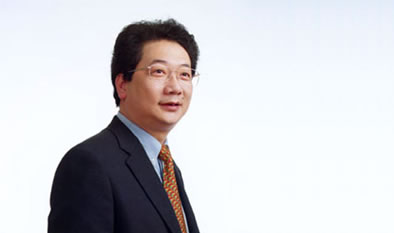
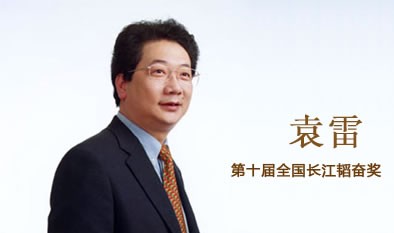
robbin

Changed region(s): [[0.5787, 0.691, 0.9746, 0.7811], [0.731, 0.4807, 0.9137, 0.6309]]

diff --git a/css/qyh.css b/css/qyh.css
@@ -1,9 +1,64 @@
-bodys{font-size:12px;  font-family:Arial,宋体; color:#000;  margin:0 auto; padding:0;}
+body{font-size:12px;  font-family:Arial,宋体; color:#000;  margin:0 auto; padding:0;}
 
 #ibody{width:1250px; height:1856px; background:url('/subject/qyh/images/qyh_bg.jpg') no-repeat; margin:0 auto;}
-#qyh_index{width:945px; height:1159px; margin-top:10px; margin-left:152px; background:url('/subject/qyh/images/content_bg.jpg') no-repeat;  float:left; display:inline;}
+#qyh_index{width:945px; height:1542px; margin-top:10px; margin-left:152px; background:url('/subject/qyh/images/index_content_bg.jpg') no-repeat;  float:left; display:inline;}
 #index_top{width:929px; height:324px; margin-top:5px; margin-left:8px; background:url('/subject/qyh/images/index_top.jpg') no-repeat; float:left; display:inline;}
-#index_top .index_t_title{width:890px; height:22px; margin-top:5px; margin-left:10px; font-size:18px; font-weight:bold; line-height:22px; float:left; display:inline;}
+#index_top .index_t_title{width:890px; height:22px; margin-top:5px; margin-left:20px; font-size:18px; font-weight:bold; line-height:22px; color:#fbc43c; float:left; display:inline;}
 #index_top .index_t_title a{color:#fbc43c; text-decoration:none;}
-#index_top #t_l_pic{width:410px; height:248px; margin-top:10px; margin-left:10px; background:url('/subject/qyh/images/index_t_l_pic.jpg') no-repeat; float:left; display:inline;}
+#index_top #t_l_pic{width:410px; height:248px; margin-top:20px; margin-left:15px; background:url('/subject/qyh/images/index_t_l_pic.jpg') no-repeat; float:left; display:inline;}
 #index_top #t_l_pic img{width:394px; height:233px; margin-top:6px; margin-left:7px;}
+#index_top .t_r_pic{width:469px; height:115px; margin-top:20px; margin-right:15px; background:url('/subject/qyh/images/index_r_pic.jpg') no-repeat; float:right; display:inline;}
+#index_top .t_r_pic .t_r_picimg{width:128px; height:78px; margin-top:6px; margin-left:8px; float:left; display:inline;}
+#index_top .t_r_pic .t_r_picimg img{width:128px; height:78px;}
+#index_top .t_r_pic .t_r_pictitle{width:128px; height:20px; margin-top:10px; text-align:center; float:left; display:inline;}
+#index_top .t_r_pic .t_r_pictitle a{color:#6a390a; text-decoration:none;}
+#index_top #t_l_content{width:890px; height:38px; margin-top:10px; margin-right:5px; font-size:14px; line-height:19px; float:right; display:inline;}
+#index_top #t_l_content a{color:#ab6821; text-decoration:none;}
+#index_mid_l{width:533px; height:284px; margin-top:10px; margin-left:8px; background:url('/subject/qyh/images/index_l_c_bg.jpg') no-repeat; float:left; display:inline;}
+#index_mid_l #title{width:400px; height:22px; margin-top:5px; margin-left:60px; line-height:22px; font-size:18px; font-family:微软雅黑; color:#884800; font-weight:bold; float:left; display:inline;}
+#index_mid_l #title a{color:#884800; text-decoration:none;}
+#index_mid_l .m_l_content{width:220px; height:60px; margin-top:20px; margin-left:40px; float:left; display:inline;}
+#index_mid_l .m_l_content .pic{width:77px; height:59px; background:url('/subject/qyh/images/index_l_m_pic.jpg') no-repeat; float:left; display:inline;}
+#index_mid_l .m_l_content .pic img{width:66px; height:44px; margin-left:6px; margin-top:7px;}
+#index_mid_l .m_l_content .piccontent{width:132px; height:38px; line-height:19px; overflow:hidden; float:right; display:inline;}
+#index_mid_l .m_l_content .piccontent a{color:#ab6821; text-decoration:none;}
+#index_mid_l .m_l_content .ly{width:132px; height:19px; float:right; display:inline;}
+#index_mid_l .m_l_content .ly a{color:#ab6821; text-decoration:none;}
+#index_mid_r_t{width:366px; height:210px; margin-top:10px; margin-right:8px; background:url('/subject/qyh/images/index_m_r_t.jpg') no-repeat; float:right; display:inline;}
+#index_mid_r_t #title{width:365px; height:22px; margin-top:6px; float:left; display:inline;}
+#index_mid_r_t #title #wz{width:92px; height:22px; margin-left:50px; font-size:18px; line-height:22px; font-family:微软雅黑; font-weight:bold; color:#884800; float:left; display:inline;}
+#index_mid_r_t #title #wz a{color:#884800; text-decoration:none;}
+#index_mid_r_t #title #more{width:96px; height;16px; margin-top:8px; margin-right:10px; font-weight:bold; line-height:16px; margin-right:10px; float:right; display:inline;}
+#index_mid_r_t #title #more a{color:#884800; text-decoration:none;}
+#index_mid_r_t .pic{width:212px; height:152px; margin-top:15px; margin-left:20px; background:#ff9900; overflow:hidden; float:left; display:inline;}
+#index_mid_r_t .pic img{width:208px; height:148px; margin:2px;}
+#index_mid_r_t #dialogname{width:111px; height:152px; margin-top:20px; margin-left:5px; float:left; display:inline;}
+#index_mid_r_t #dialogname .name{width:111px; height:27px; text-align:center; color:#6a3906; line-height:27px; float:left; display:inline;}
+#index_mid_r_t #dialogname .name a{color:#6a3906; text-decoration:none;}
+#index_mid_r_b{width:366px; height:66px; margin-top:10px; margin-right:8px; float:right; display:inline;}
+#index_b1{width:928px; height:215px; margin-top:10px; margin-left:8px; background:url('/subject/qyh/images/index_b1.jpg') no-repeat; float:left; display:inline;}
+#index_b1 #title{width:900px; height:22px; margin-top:5px; margin-left:20px; color:#884800; font-weight:bold; font-family:微软雅黑; line-height:22px; font-size:18px; float:left; display:inline;}
+#index_b1 .pic{width:164px; height:110px; margin-top:20px; margin-left:18px; background:url('/subject/qyh/images/index_b_pic.jpg') no-repeat; overflow:hidden; float:left; display:inline;}
+#index_b1 .pic img{width:152px; height:98px; margin:6px;}
+#index_b1 #jiangxiang{width:928px; height:48px; margin-top:5px; text-align:center; float:left; display:inline;}
+#index_b1 .jx{width:175px; height:48px; background:url('/subject/qyh/images/index_b_jx.jpg') no-repeat; margin-left:40px; float:left; display:inline;}
+#index_b1 .jx .wz{width:128px; height:18px; margin-top:18px; line-height:18px; font-size:14px; text-align:center; font-weight:bold; color:#ffffff; float:right; display:inline;}
+#index_b1 .jx .wz a{color:#ffffff; text-decoration:none;}
+.index_b_l{width:731px; height:284px; margin-top:10px; margin-bottom:10px; margin-left:8px; background:url('/subject/qyh/images/index_r_b_l_t.jpg') no-repeat; float:left; display:inline;}
+.index_b_l .title{width:600px; height:22px; margin-top:5px; margin-left:60px; color:#884800; font-weight:bold; font-family:微软雅黑; line-height:22px; font-size:18px; float:left; display:inline;}
+.index_b_l .content_l{width:235px; margin-top:25px; margin-left:17px; float:left; display:inline;}
+.index_b_l .content_l .pic{width:235px; height:163px; overflow:hidden; float:left; display:inline;}
+.index_b_l .content_l .pic img{width:235px; height:163px;}
+.index_b_l .content_l .piccontent{width:235px; height:36px; margin-top:5px; line-height:18px; overflow:hidden; float:left; display:inline;}
+.index_b_l .content_l .piccontent a{color:#666666; text-decoration:none;}
+.index_b_l .content_r{width:460px; margin-right:10px; float:right; display:inline;}
+.index_b_l .content_r .b_l_c{width:220px; height:60px; margin-top:20px; margin-left:10px; float:left; display:inline;}
+.index_b_l .content_r .pic{width:77px; height:59px; margin-left:10px; background:url('/subject/qyh/images/index_l_m_pic.jpg') no-repeat; float:left; display:inline;}
+.index_b_l .content_r .pic img{width:66px; height:44px; margin-left:6px; margin-top:7px;}
+.index_b_l .content_r .piccontent{width:115px; height:57px; line-height:19px; overflow:hidden; float:right; display:inline;}
+.index_b_l .content_r .piccontent a{color:#ab6821; text-decoration:none;}
+.index_b_r{width:187px; height:288px; margin-top:10px; margin-right:8px;  background:url('/subject/qyh/images/index_b_right.jpg') no-repeat; float:right; display:inline;}
+.index_b_r .title{width:150px; height:18px; margin-top:8px; margin-left:10px; font-size:14px; line-height:18px; color:#884800; font-weight:bold; float:left; display:inline;}
+.index_b_r .content{width:161px; height:240px; margin-top:12px; margin-left:10px; line-height:20px; float:left; display:inline;}
+.index_b_r .content .cl{width:161px; height:20px; line-height:20px; float:left; display:inline;}
+.index_b_r .content .cl a{color:#884800; text-decoration:none;}

diff --git a/subject/qyh/index.php b/subject/qyh/index.php
@@ -21,9 +21,121 @@
 		<?php include('inc/top.inc.php');?>
 			<div id=qyh_index>
 				<div id=index_top>
-					<div class=index_t_title><a href="">风云英雄榜</a></div>
+					<div class=index_t_title>风云英雄榜</div>
 					<div id=t_l_pic>
-						<a href=""><img border=0 src="images/one.jpg"></a>	
+						<a target="_blank" href=""><img border=0 src="images/one.jpg"></a>	
+					</div>
+					<div class=t_r_pic>
+						<div class="t_r_picimg"><a target="_blank" href=""><img border=0 src="images/two.jpg"></a></div>
+						<div class="t_r_picimg" style="margin-left:38px;"><a target="_blank" href=""><img border=0 src="images/two.jpg"></a></div>
+						<div class="t_r_picimg" style="margin-left:32px;><a target="_blank" href=""><img border=0 src="images/two.jpg"></a></div>
+						<div class="t_r_pictitle"><a target="_blank" href="">长江韬奋奖 袁雷</a></div>
+						<div class="t_r_pictitle" style="margin-left:38px;"><a target="_blank" href="">长江韬奋奖 袁雷</a></div>
+						<div class="t_r_pictitle" style="margin-left:32px;><a target="_blank" href="">长江韬奋奖 袁雷</a></div>
+					</div>
+					<div class=t_r_pic>
+						<div class="t_r_picimg"><a target="_blank" href=""><img border=0 src="images/two.jpg"></a></div>
+						<div class="t_r_picimg" style="margin-left:38px;"><a target="_blank" href=""><img border=0 src="images/two.jpg"></a></div>
+						<div class="t_r_picimg" style="margin-left:32px;><a target="_blank" href=""><img border=0 src="images/two.jpg"></a></div>
+						<div class="t_r_pictitle"><a target="_blank" href="">长江韬奋奖 袁雷</a></div>
+						<div class="t_r_pictitle" style="margin-left:38px;"><a target="_blank" href="">长江韬奋奖 袁雷</a></div>
+						<div class="t_r_pictitle" style="margin-left:32px;><a target="_blank" href="">长江韬奋奖 袁雷</a></div>
+					</div>
+					<div class=index_t_title>群英汇介绍</div>
+					<div id=t_l_content><a target="_blank" href="">名人堂介绍名人堂介绍名人堂介绍名人堂介绍名人堂介绍名人堂介绍名人堂介绍名人堂介绍名人堂介绍名人堂介绍名人堂介绍名人堂介绍名名人堂介绍名人堂介绍名人堂介绍名人堂介绍名人堂介绍名人堂介绍名人堂介绍名人堂介绍名人堂介绍人堂介绍名人堂介绍人堂介绍名人堂介绍</a></div>
+				</div>
+				<div id=index_mid_l>
+					<div id=title>心灵之光</div>
+					<?php for($i=0;$i<6;$i++){ ?>
+						<div class=m_l_content>
+							<div class=pic><a target="_blank" href=""><img border=0 src="images/three.jpg"></a></div>
+							<div class=piccontent><a target="_blank" href="">德艺双馨  骆新</a><br><a target="_blank" href="">留言留言留言留言留言</a></div>
+							<div class=ly><a target="_blank" href="">[欢迎留言]</a></div>
+						</div>
+					<?php } ?>
+				</div>
+				<div id=index_mid_r_t>
+					<div id=title>
+						<div id=wz>对话群英</div>
+						<div id=more><a target="_blank" href="">>> 进入留言板</a></div>
+					</div>
+					<div class=pic>
+						<a target="_blank" href=""><img border=0 src="images/four.jpg"></a>	
+					</div>
+					<div id=dialogname>
+						<div class=name style="height:31px; background:url('images/index_r_t_bg.jpg') no-repeat; line-height:31px;"><a style="color:#ab6821;" href="">骆新</a></div>
+						<div class=name><a href="">骆新</a></div>
+						<div class=name><a href="">骆新</a></div>
+						<div class=name><a href="">骆新</a></div>
+						<div class=name><a href="">骆新</a></div>
+					</div>
+				</div>
+				<div id=index_mid_r_b><a target="_blank" href=""><img border=0 src="images/index_m_r_b.jpg"></a></div>
+				<div id=index_b1>
+					<div id=title>群英闪烁</div>
+					<?php for($i=0;$i<5;$i++){ ?>
+						<div class=pic><a target="_blank" href=""><img border=0 src="images/five.jpg"></a></div>
+					<?php } ?>
+					<div id=jiangxiang>
+						<div class=jx>
+							<div class=wz><a href="">长江韬奋奖</a></div>
+						</div>
+						<div class=jx>
+							<div class=wz><a href="">长江韬奋奖</a></div>
+						</div>	
+						<div class=jx>
+							<div class=wz><a href="">长江韬奋奖</a></div>
+						</div>	
+						<div class=jx>
+							<div class=wz><a href="">长江韬奋奖</a></div>
+						</div>
+					</div>
+				</div>
+				<div class=index_b_l>
+					<div class=title>群英们的故事</div>
+					<div class=content_l>
+						<div class=pic><a target="_blank" href=""><img border=0 src="/subject/qyh/images/six.jpg"></a></div>
+						<div class=piccontent><a target="_blank" href="">全国德艺双馨电视艺术工作者骆新、全国暨上海优秀新闻工作者王勇获表彰喜逐颜开</a></div>	
+					</div>
+					<div class=content_r>
+						<?php for($i=0;$i<6;$i++){ ?>
+						<div class=b_l_c>
+							<div class=pic><a target="_blank" href=""><img border=0 src="images/three.jpg"></a></div>
+							<div class=piccontent><a target="_blank" href="">“金帆奖”、“金鹿奖”获奖代表颁奖</a></div>
+						</div>
+						<?php } ?>
+					</div>
+				</div>
+				<div class=index_b_r>
+					<div class=title>奖项介绍</div>
+					<div class=content>
+						<?php for($i=0;$i<12;$i++){ ?>
+						<div class=cl><a href="">·全国长江韬奋奖</a></div>
+						<?php } ?>
+					</div>
+				</div>
+				<div class=index_b_l>
+					<div class=title>群英们的足迹</div>	
+						<div class=content_l>
+						<div class=pic><a target="_blank" href=""><img border=0 src="/subject/qyh/images/six.jpg"></a></div>
+						<div class=piccontent><a target="_blank" href="">全国德艺双馨电视艺术工作者骆新、全国暨上海优秀新闻工作者王勇获表彰喜逐颜开</a></div>	
+					</div>
+					<div class=content_r>
+						<?php for($i=0;$i<6;$i++){ ?>
+						<div class=b_l_c>
+							<div class=pic><a target="_blank" href=""><img border=0 src="images/three.jpg"></a></div>
+							<div class=piccontent><a target="_blank" href="">“金帆奖”、“金鹿奖”获奖代表颁奖</a></div>
+						</div>
+						<?php } ?>
+					</div>
+				</div>
+				
+				<div class=index_b_r>
+					<div class=title>相关视频</div>
+					<div class=content>
+						<?php for($i=0;$i<12;$i++){ ?>
+						<div class=cl><a href="">·全国长江韬奋奖</a></div>
+						<?php } ?>
 					</div>
 				</div>
 			</div>
